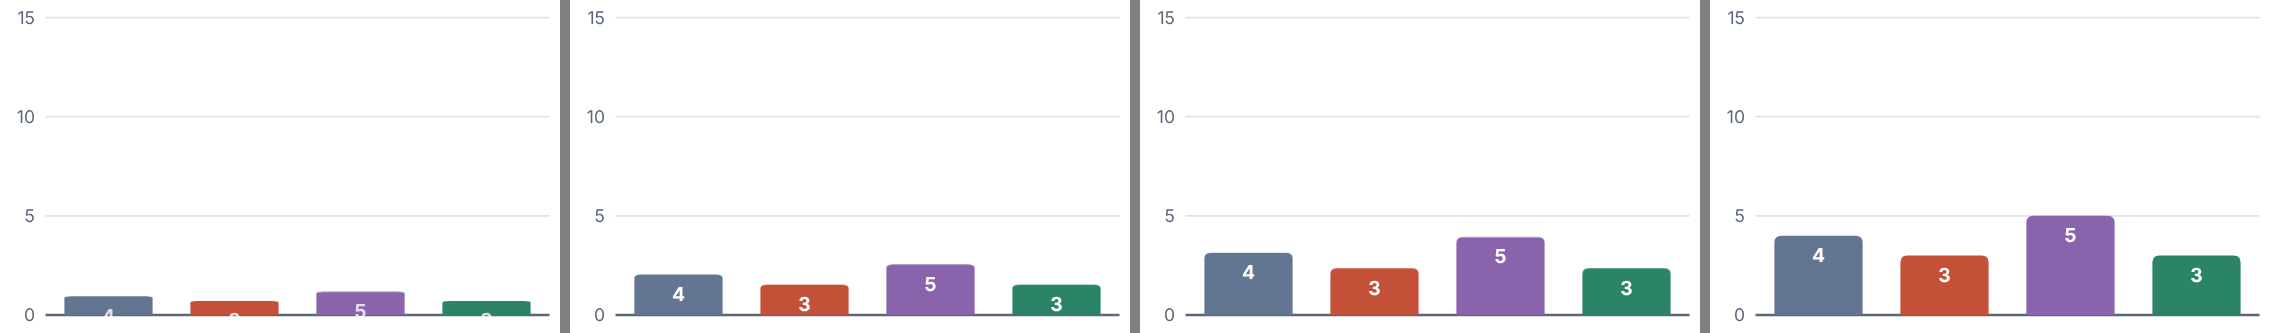
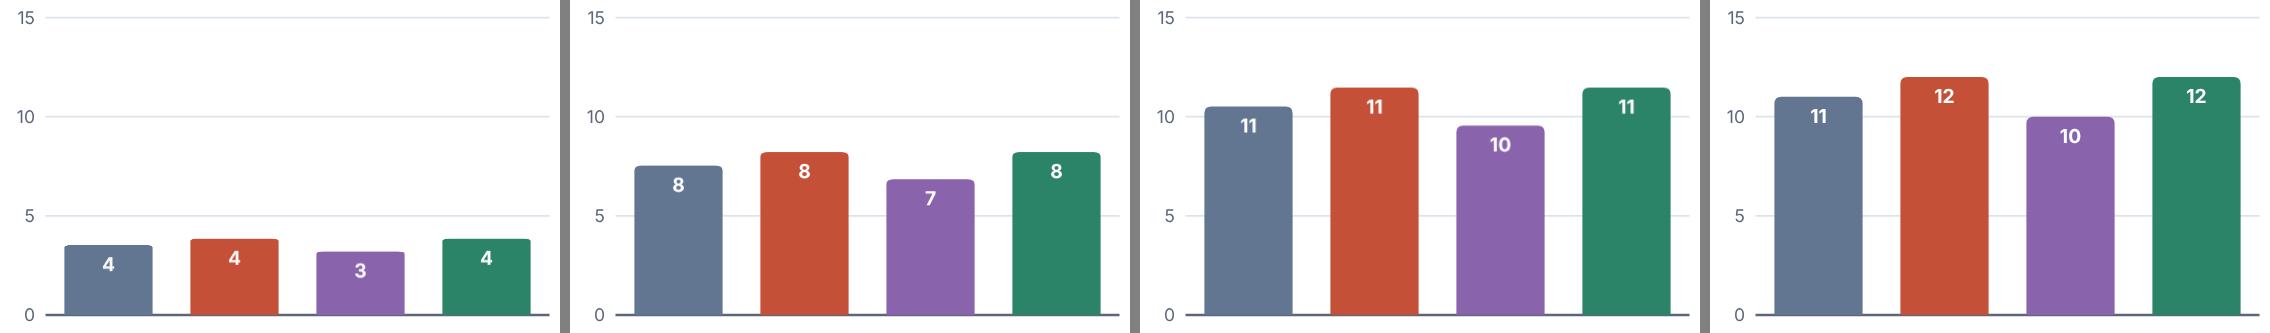
feat: chart values count up with their bars
Each value counts from 0 to its score with the same easing as the bar
(ease-out over 0.8 s), unless reduced motion is requested.

diff --git a/src/ui/results-screens.js b/src/ui/results-screens.js
@@ -2,13 +2,15 @@
  * Écrans de résultats : grille d'analyse, histogramme avec détail par posture, conclusion.
  * Chaque fonction remplit le conteneur `panel` et ne garde aucun état global.
  */
-import { barGeometry, barPath, ticks, valueToY } from "../core/chart.js";
+import { barGeometry, barPath, countAt, ticks, valueToY } from "../core/chart.js";
 import { CATEGORIES } from "../core/scoring.js";
 import { frenchSpacing } from "../core/typography.js";
 
 const SVG_NS = "http://www.w3.org/2000/svg";
 const VIEW = { width: 320, height: 190 };
 const PLOT = { left: 26, top: 10, width: 288, height: 170 };
+/** Durée de la pousse des barres, identique à l'animation grow-bar de main.css. */
+const GROW_DURATION = 800;
 
 /** Couleur d'une posture, définie dans tokens.css. */
 export const postureColor = (category) => `var(--color-${category})`;
@@ -81,6 +83,7 @@ function buildChart(scores, maximum, labels) {
                     x: bar.x + bar.width / 2,
                     y: inside ? bar.y + 15 : bar.y - 5,
                     class: "chart-value",
+                    "data-score": scores[category],
                     // --rise : distance parcourue par le chiffre pendant que la barre pousse
                     style: `fill: ${inside ? "var(--color-on-primary)" : "var(--color-text)"}; --rise: ${bar.height}px`,
                 },
@@ -89,6 +92,33 @@ function buildChart(scores, maximum, labels) {
         );
     });
     return chart;
+}
+
+/**
+ * Les chiffres défilent de 0 à leur score pendant que les barres poussent.
+ * Rien ne bouge si « réduire les animations » est activé.
+ */
+function countUp(chart) {
+    if (window.matchMedia?.("(prefers-reduced-motion: reduce)").matches) {
+        return;
+    }
+    const values = [...chart.querySelectorAll(".chart-value")];
+    for (const value of values) {
+        value.textContent = "0";
+    }
+    let start = null;
+    const step = (now) => {
+        start ??= now;
+        const t = Math.min((now - start) / GROW_DURATION, 1);
+        for (const value of values) {
+            value.textContent = String(countAt(Number(value.dataset.score), t));
+        }
+        if (t < 1 && chart.isConnected) {
+            requestAnimationFrame(step);
+        }
+    };
+    // Première image au prochain affichage, quand l'histogramme est dans la page
+    requestAnimationFrame(step);
 }
 
 /**
@@ -118,6 +148,7 @@ export function renderScores(panel, { scores, maximum, results, selected, onSele
         );
     } else {
         main = buildChart(scores, maximum, labels);
+        countUp(main);
     }
 
     const buttons = create("div", "posture-buttons");

diff --git a/src/core/chart.js b/src/core/chart.js
@@ -50,3 +50,35 @@ export function barPath({ x, y, width, height }, radius = 4) {
         "Z",
     ].join(" ");
 }
+
+/**
+ * Courbe CSS « ease-out » (cubic-bezier(0, 0, 0.58, 1)) : progression de 0 à 1
+ * pour un temps t de 0 à 1. Sert à faire défiler les chiffres au rythme des barres.
+ */
+export function easeOut(t) {
+    if (t <= 0) {
+        return 0;
+    }
+    if (t >= 1) {
+        return 1;
+    }
+    // Courbe de Bézier avec P1 = (0, 0) et P2 = (0.58, 1) : on cherche u tel que x(u) = t
+    const x = (u) => 3 * (1 - u) * u * u * 0.58 + u * u * u;
+    let low = 0;
+    let high = 1;
+    for (let i = 0; i < 30; i++) {
+        const u = (low + high) / 2;
+        if (x(u) < t) {
+            low = u;
+        } else {
+            high = u;
+        }
+    }
+    const u = (low + high) / 2;
+    return 3 * (1 - u) * u * u + u * u * u;
+}
+
+/** Chiffre affiché pendant l'animation : de 0 à `score`, arrondi. */
+export function countAt(score, t) {
+    return Math.round(score * easeOut(t));
+}

diff --git a/src/core/chart.test.js b/src/core/chart.test.js
@@ -1,5 +1,5 @@
 import { describe, expect, it } from "vitest";
-import { barGeometry, barPath, ticks, valueToY } from "./chart.js";
+import { barGeometry, barPath, countAt, easeOut, ticks, valueToY } from "./chart.js";
 
 const plot = { left: 40, top: 10, width: 400, height: 150 };
 
@@ -60,5 +60,22 @@ describe("barPath", () => {
 
     it("ne trace rien pour un score nul", () => {
         expect(barPath({ x: 0, y: 100, width: 40, height: 0 })).toBe("");
+    });
+});
+
+describe("easeOut", () => {
+    it("part de 0, finit à 1 et ralentit à la fin", () => {
+        expect(easeOut(0)).toBe(0);
+        expect(easeOut(1)).toBe(1);
+        expect(easeOut(0.5)).toBeGreaterThan(0.5);
+        expect(easeOut(0.5)).toBeCloseTo(0.684, 2);
+    });
+});
+
+describe("countAt", () => {
+    it("compte de 0 jusqu'au score", () => {
+        expect(countAt(12, 0)).toBe(0);
+        expect(countAt(12, 1)).toBe(12);
+        expect(countAt(12, 0.5)).toBe(8);
     });
 });

diff --git a/CHANGELOG.md b/CHANGELOG.md
@@ -9,7 +9,7 @@ Format : [Keep a Changelog](https://keepachangelog.com/fr/1.1.0/), versions : [S
 
 ### Corrigé
 
-- Les chiffres de l'histogramme montent en même temps que leur barre, au lieu d'apparaître directement à leur place.
+- Les chiffres de l'histogramme montent avec leur barre et comptent de 0 jusqu'au score au même rythme, au lieu d'apparaître directement à leur place.
 - Lien de comparaison de la 0.5.0 dans ce fichier (pas de release v0.5.0 publiée).
 
 ## [0.5.1] - 2026-11-27
